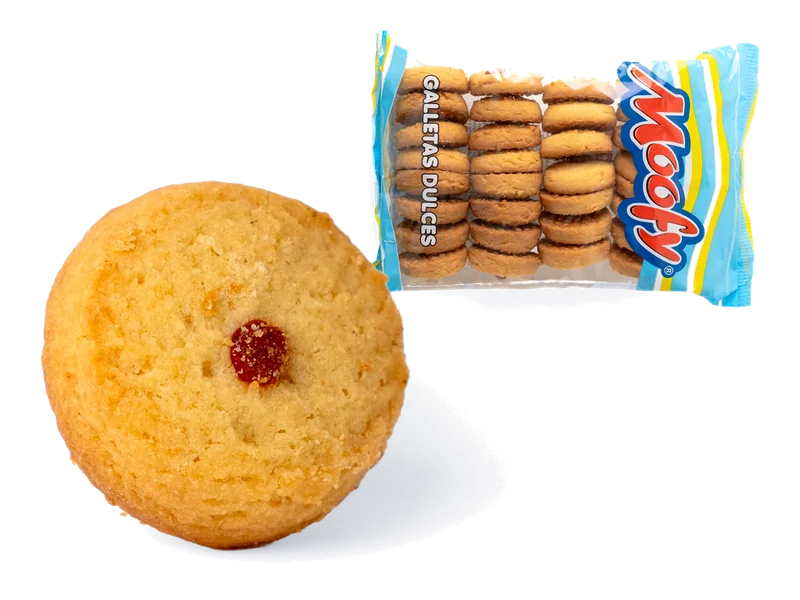
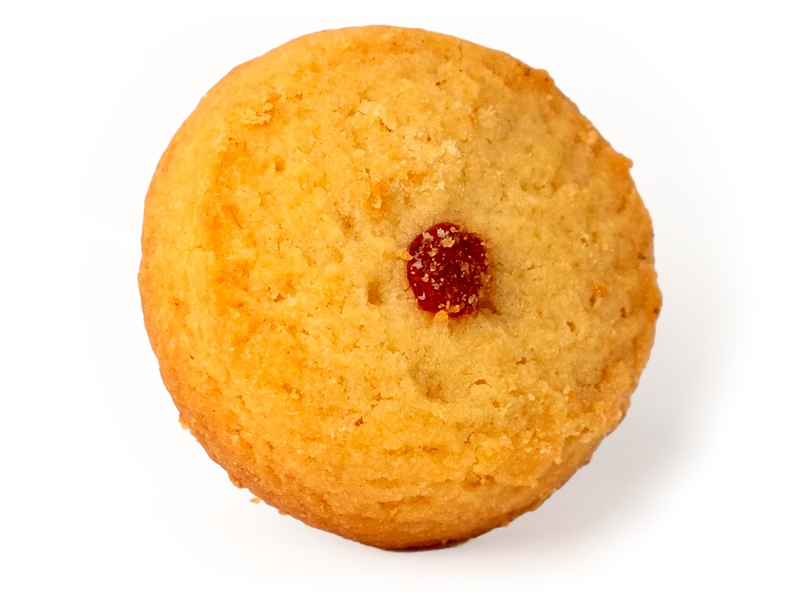
Mostrar cada producto solo, sobre el papel del estudio
Las fotos juntaban la pieza y su empaque sobre el celeste de la
tarjeta, y se veían recortadas y pegadas encima: la comida se enfriaba
sobre azul y la sombra de estudio, hecha sobre blanco, había que
fabricarla de nuevo.

- Cada foto es la pieza sola, grande, con su propia sombra de estudio.
  Esa sombra llega muy lejos, casi invisible, y el recorte la cortaba
  en seco: ahora se apaga antes del borde, sin dejar línea.
- Un retoque leve de color y calidez; la forma y el color del producto
  no cambian. Los bizcochos de maíz solo tienen foto en bolsa.
- El marco de la foto, en la portada y en /catalogo, pasa del celeste
  al blanco cálido del estudio (--estudio), que es parte de la foto y
  no un color nuevo de la interfaz.

diff --git a/libs/moofy/frontend/shared/src/lib/data/site.ts b/libs/moofy/frontend/shared/src/lib/data/site.ts
@@ -145,7 +145,7 @@ export const LINEAS = {
       ideal: 'Cafeterías · Hoteles',
       imagen: 'img/productos/palmeritas.webp',
       pieza: 'img/productos/palmeritas-pieza.webp',
-      alt: 'Palmerita azucarada de hojaldre junto a su bolsa Moofy.',
+      alt: 'Palmerita azucarada de hojaldre.',
     },
     {
       id: 'gatos',
@@ -155,7 +155,7 @@ export const LINEAS = {
       ideal: 'Supermercados · Conveniencia',
       imagen: 'img/productos/choco-gatos.webp',
       pieza: 'img/productos/choco-gatos-pieza.webp',
-      alt: 'Choco gato relleno de dulce de leche junto a su empaque Moofy.',
+      alt: 'Choco gato relleno de dulce de leche.',
     },
     {
       id: 'pasteleria',
@@ -165,7 +165,7 @@ export const LINEAS = {
       ideal: 'Cafeterías · Catering',
       imagen: 'img/productos/torta-chilena.webp',
       pieza: 'img/productos/torta-chilena-pieza.webp',
-      alt: 'Porción de torta chilena con dulce de leche junto a su empaque Moofy.',
+      alt: 'Porción de torta chilena con dulce de leche.',
     },
     {
       id: 'panaderia-dulce',
@@ -175,7 +175,7 @@ export const LINEAS = {
       ideal: 'Hoteles · Cafeterías',
       imagen: 'img/productos/rollitos-canela.webp',
       pieza: 'img/productos/rollitos-canela-pieza.webp',
-      alt: 'Rollito de canela glaseado junto a su caja Moofy.',
+      alt: 'Rollito de canela glaseado.',
     },
     {
       id: 'galleteria',
@@ -185,7 +185,7 @@ export const LINEAS = {
       ideal: 'Supermercados · Vending',
       imagen: 'img/productos/julietas.webp',
       pieza: 'img/productos/julietas-pieza.webp',
-      alt: 'Galleta dulce tipo Julieta con su punto de guayaba junto a su bolsa Moofy.',
+      alt: 'Galleta dulce tipo Julieta con su punto de guayaba.',
     },
     {
       id: 'salados',
@@ -195,7 +195,7 @@ export const LINEAS = {
       ideal: 'Conveniencia · Vending',
       imagen: 'img/productos/palitos-queso.webp',
       pieza: 'img/productos/palitos-queso-pieza.webp',
-      alt: 'Palito casero con queso junto a su bolsa Moofy.',
+      alt: 'Palito casero con queso.',
     },
   ],
 } as const;
@@ -230,7 +230,7 @@ export const PRODUCTOS: readonly Producto[] = [
     descripcion: 'Crujientes y doraditas, de capas hojaldradas ligeras con el toque dulce justo.',
     atributos: ['Crujiente y ligera', 'Capas hojaldradas'],
     imagen: 'img/productos/palmeritas.webp',
-    alt: 'Palmerita azucarada junto a su bolsa Moofy.',
+    alt: 'Palmerita azucarada.',
   },
   {
     id: 'costilla-guayaba',
@@ -240,7 +240,7 @@ export const PRODUCTOS: readonly Producto[] = [
     descripcion: 'Dorada y crujiente, con un toque de azúcar y un relleno generoso de guayaba.',
     atributos: ['Crocante', 'Centro suave'],
     imagen: 'img/productos/costilla-guayaba.webp',
-    alt: 'Costilla de hojaldre rellena de guayaba junto a su bolsa Moofy.',
+    alt: 'Costilla de hojaldre rellena de guayaba.',
   },
   {
     id: 'empanadas',
@@ -260,7 +260,7 @@ export const PRODUCTOS: readonly Producto[] = [
     descripcion: 'Suaves, con aroma a chocolate y un relleno de dulce de leche.',
     atributos: ['Suave y esponjoso', 'Relleno cremoso'],
     imagen: 'img/productos/choco-gatos.webp',
-    alt: 'Choco gato relleno de dulce de leche junto a su empaque Moofy.',
+    alt: 'Choco gato relleno de dulce de leche.',
   },
   {
     id: 'gatos-pina',
@@ -270,7 +270,7 @@ export const PRODUCTOS: readonly Producto[] = [
     descripcion: 'Suaves y esponjosos, con un relleno de piña de sabor fresco.',
     atributos: ['Suave y esponjoso', 'Relleno frutal'],
     imagen: 'img/productos/gatos-pina.webp',
-    alt: 'Gato relleno de piña junto a su empaque Moofy.',
+    alt: 'Gato relleno de piña.',
   },
   {
     id: 'gatos-guayaba',
@@ -280,7 +280,7 @@ export const PRODUCTOS: readonly Producto[] = [
     descripcion: 'Tiernos y suaves, con un relleno de guayaba de sabor intenso.',
     atributos: ['Suave y ligero', 'Sabor tropical'],
     imagen: 'img/productos/gatos-guayaba.webp',
-    alt: 'Gato relleno de guayaba junto a su empaque Moofy.',
+    alt: 'Gato relleno de guayaba.',
   },
   {
     id: 'arrollado',
@@ -290,7 +290,7 @@ export const PRODUCTOS: readonly Producto[] = [
     descripcion: 'Esponjoso y ligero, con una generosa capa de dulce de leche.',
     atributos: ['Ligero y esponjoso', 'Relleno dulce'],
     imagen: 'img/productos/arrollado.webp',
-    alt: 'Rodaja de arrollado con dulce de leche junto a su bolsa Moofy.',
+    alt: 'Rodaja de arrollado con dulce de leche.',
   },
   {
     id: 'torta-chilena',
@@ -300,7 +300,7 @@ export const PRODUCTOS: readonly Producto[] = [
     descripcion: 'Capas finas con un relleno generoso de dulce de leche.',
     atributos: ['Capas finas', 'Relleno abundante'],
     imagen: 'img/productos/torta-chilena.webp',
-    alt: 'Porción de torta chilena junto a su empaque Moofy.',
+    alt: 'Porción de torta chilena.',
   },
   {
     id: 'quequito',
@@ -310,7 +310,7 @@ export const PRODUCTOS: readonly Producto[] = [
     descripcion: null,
     atributos: ['Esponjoso', 'Dulce'],
     imagen: 'img/productos/quequito.webp',
-    alt: 'Quequito de vainilla junto a su bolsa Moofy.',
+    alt: 'Quequito de vainilla.',
   },
   {
     id: 'rollitos-canela',
@@ -320,7 +320,7 @@ export const PRODUCTOS: readonly Producto[] = [
     descripcion: 'Doraditos y suaves, con ese aroma a canela que despierta el antojo.',
     atributos: ['Suave', 'Dulce'],
     imagen: 'img/productos/rollitos-canela.webp',
-    alt: 'Rollito de canela glaseado junto a su caja Moofy.',
+    alt: 'Rollito de canela glaseado.',
   },
   {
     id: 'media-luna',
@@ -340,7 +340,7 @@ export const PRODUCTOS: readonly Producto[] = [
     descripcion: 'Crujientes por fuera, se deshacen en la boca y llevan un punto de guayaba.',
     atributos: ['Dulzor suave', 'Toque frutal'],
     imagen: 'img/productos/julietas.webp',
-    alt: 'Galleta tipo Julieta junto a su bolsa Moofy.',
+    alt: 'Galleta tipo Julieta.',
   },
   {
     id: 'choco-chip-avena',
@@ -380,7 +380,7 @@ export const PRODUCTOS: readonly Producto[] = [
     descripcion: 'Crujientes y ligeros, con el sabor del queso en cada mordida.',
     atributos: ['Crocante', 'Ligero'],
     imagen: 'img/productos/palitos-queso.webp',
-    alt: 'Palito casero con queso junto a su bolsa Moofy.',
+    alt: 'Palito casero con queso.',
   },
   {
     id: 'rosquillas',
@@ -420,7 +420,7 @@ export const PRODUCTOS: readonly Producto[] = [
     descripcion: 'Suaves y dulces, con un relleno de guayaba.',
     atributos: ['Suave', 'Relleno dulce'],
     imagen: 'img/productos/bizcochos-guayaba.webp',
-    alt: 'Bizcocho relleno de guayaba junto a su caja Moofy.',
+    alt: 'Bizcocho relleno de guayaba.',
   },
 ];
 

diff --git a/libs/moofy/frontend/shared/src/lib/styles/settings/_tokens.scss b/libs/moofy/frontend/shared/src/lib/styles/settings/_tokens.scss
@@ -25,6 +25,15 @@
   --azul-100: #e2edf9; /* panel más marcado, bordes de matiz */
   --rojo-50: #fdeff1; /* toque rosado */
 
+  /* --- Estudio: el fondo de las fotos de producto ---
+     No es un color de la interfaz sino el papel del estudio donde se
+     fotografió cada pieza: un blanco apenas cálido, más claro donde cae
+     la luz. La comida se antoja sobre cálido; sobre el azul frío se veía
+     de plástico, y su sombra de estudio solo es natural sobre blanco. */
+  --estudio-luz: #fffdf9;
+  --estudio-sombra: #f2ece3;
+  --estudio: radial-gradient(farthest-corner at 50% 42%, var(--estudio-luz), var(--estudio-sombra));
+
   /* --- Tinta: el azul del logo llevado casi a negro --- */
   --tinta-rgb: 11 31 58;
   --tinta: #0b1f3a; /* 16.52 · 15.20 · 13.93 */

diff --git a/libs/moofy/frontend/inicio/src/lib/sections/lineas/lineas.scss b/libs/moofy/frontend/inicio/src/lib/sections/lineas/lineas.scss
@@ -123,13 +123,14 @@
      lo que no ocupa el cuerpo. */
   flex: 1 1 auto;
   overflow: clip;
-  background: var(--azul-50);
+  background: var(--estudio);
 
   /* En absoluto: con la imagen en el flujo, su alto intrínseco (vertical,
      2:3) gana al aspect-ratio del marco, porque overflow: clip no anula
      el min-height: auto. */
-  /* La foto es la pieza con su empaque, sin fondo: se ve entera en
-     cualquier proporción del marco, por debajo de las insignias. */
+  /* La foto es la pieza sola, sin fondo y con su sombra de estudio: se
+     ve entera en cualquier proporción del marco, sobre el papel del
+     estudio y por debajo de las insignias. */
   img {
     position: absolute;
     inset: 3.5rem 1.25rem 1rem;

diff --git a/libs/moofy/frontend/inicio/src/lib/pages/catalogo/catalogo.scss b/libs/moofy/frontend/inicio/src/lib/pages/catalogo/catalogo.scss
@@ -201,7 +201,7 @@ main:focus {
   position: relative;
   margin: 0;
   aspect-ratio: 4 / 3;
-  background: var(--tinte);
+  background: var(--estudio);
 
   img {
     position: absolute;
